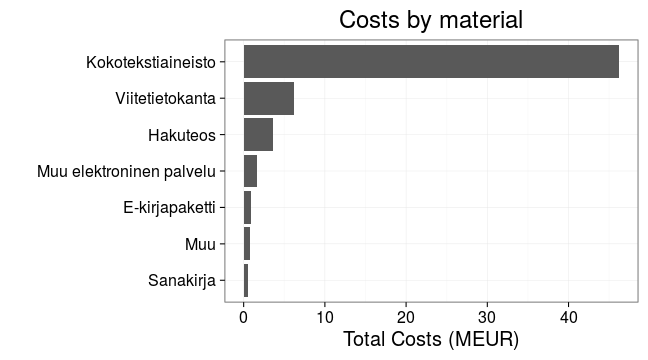
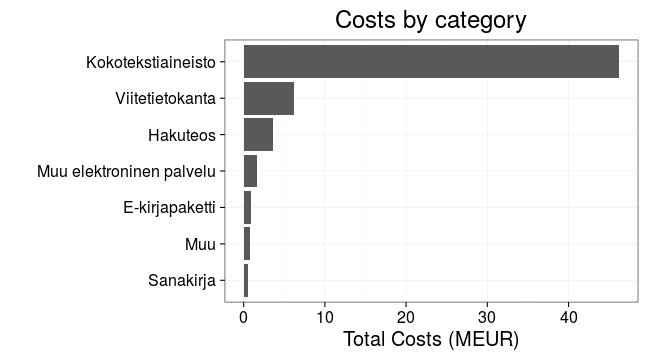
ok

Changed region(s): [[0.4938, 0.0306, 0.8333, 0.0917]]

diff --git a/20160610/foi.md b/20160610/foi.md
@@ -59,7 +59,7 @@ The total costs paid to scientific publishers by Finland 2010-2015. The annual i
 
  * [Total costs by organization (complete table)](table/cost_by_organization.csv)
  * [Total costs by publisher (complete table)](table/cost_by_publisher.csv)
- * [Total costs by material](table/cost_by_material.csv)
+ * [Total costs by category](table/cost_by_category.csv)
  * [Total costs by type](table/cost_by_type.csv)
  * [Total costs by year](table/cost_by_year.csv)   
 
